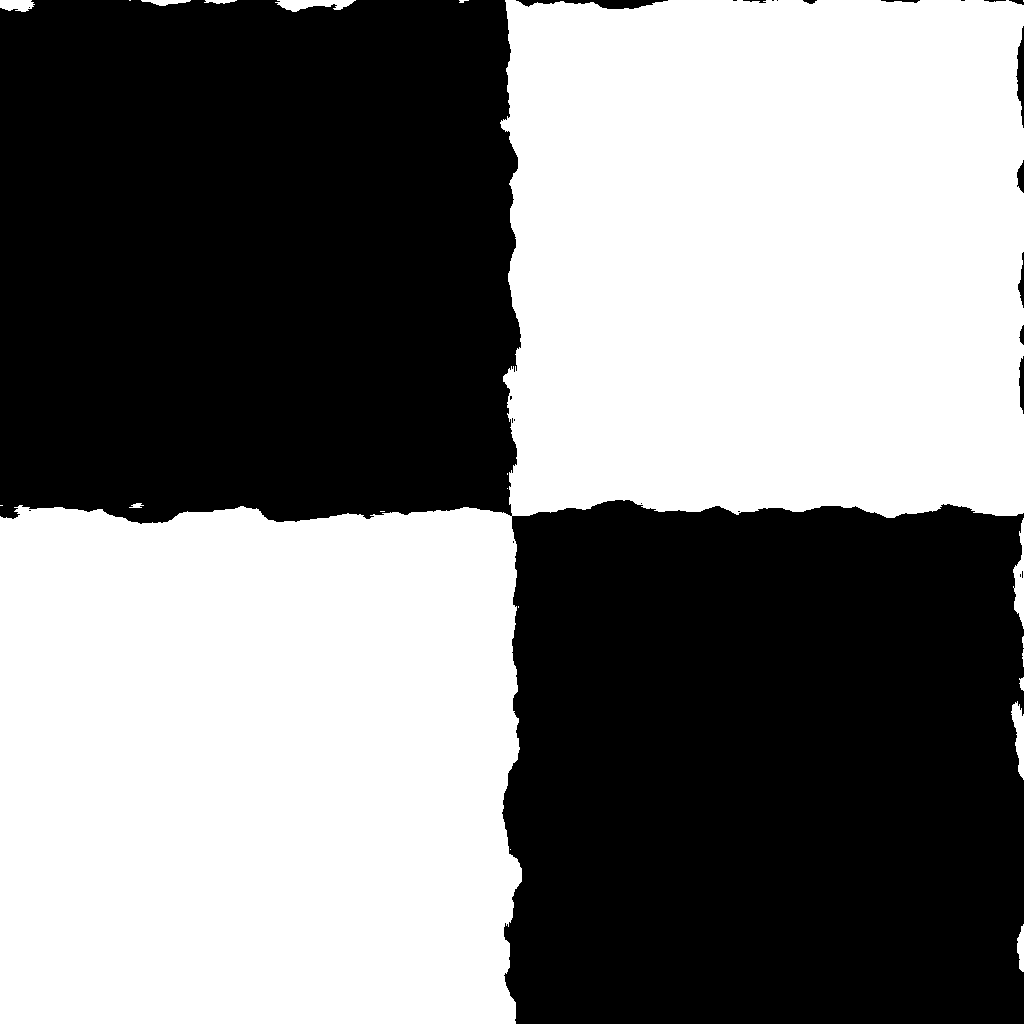
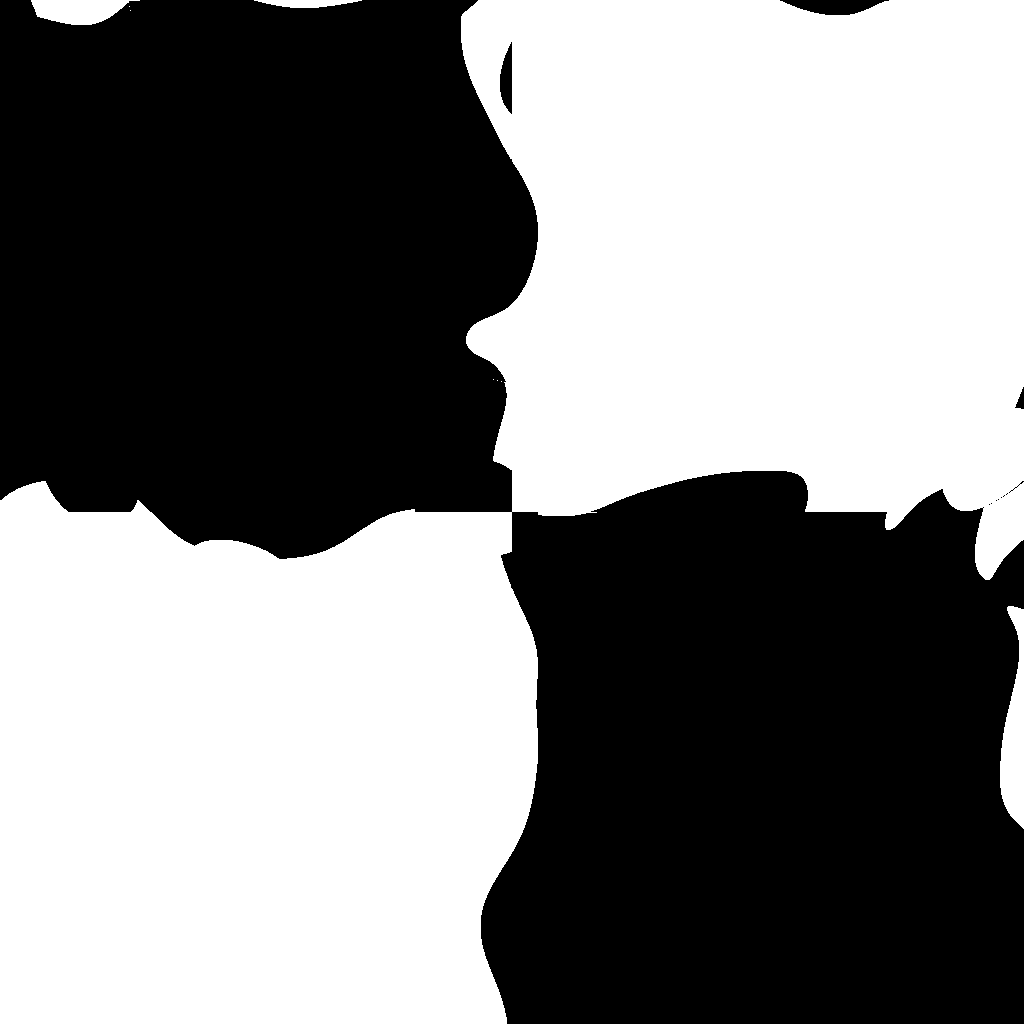
change to using manual sampling to calculate the derivative of the warper
This makes the resulting image more independent of the resolution and
gives another parameter for the node.
Also fixed a warning in the Slider component and allowed a step of 0 (no
aligning of the value).

diff --git a/src/nodes/definitions.ts b/src/nodes/definitions.ts
@@ -200,13 +200,20 @@ const nodeDefinitions = new Map<string, NodeDefinition>([
   ["warp", {
     name: "Warp",
     template: preprocessTemplate(`
-      vec4 warperValue;
-      vec2 uv = $UV;
-      $INPUT0(warperValue, uv)
-      vec2 d = vec2(dFdx(warperValue.r), dFdy(warperValue.r));
+      vec4 warperSample, warperSampleX, warperSampleY;
+      
+      vec2 sampleUv = $UV;
+      $INPUT0(warperSample, sampleUv)
+      sampleUv = $UV + vec2($derivation_step, 0);
+      $INPUT0(warperSampleX, sampleUv)
+      sampleUv = $UV + vec2(0, $derivation_step);
+      $INPUT0(warperSampleY, sampleUv)
+
+      float dx = (rgb2hsv(warperSample.rgb).z - rgb2hsv(warperSampleX.rgb).z) / $derivation_step;
+      float dy = (rgb2hsv(warperSample.rgb).z - rgb2hsv(warperSampleY.rgb).z) / $derivation_step;
 
       vec4 outputColor;
-      uv += d * $strength;
+      vec2 uv = $UV + vec2(dx, dy) * $strength * 0.005;
       $INPUT1(outputColor, uv)
 
       $OUT = outputColor;
@@ -224,6 +231,18 @@ const nodeDefinitions = new Map<string, NodeDefinition>([
           step: 0.001,
         },
         value: 1.0,
+      },
+      {
+        name: "Derivation step",
+        uniformName: "derivation_step",
+        inputType: "slider",
+        uniformType: { type: "float", array: false },
+        settings: {
+          min: 0.0001,
+          max: 0.05,
+          step: 0,
+        },
+        value: 0.001,
       },
     ],
     inputs: [

diff --git a/src/components/ui/slider/slider.tsx b/src/components/ui/slider/slider.tsx
@@ -52,7 +52,7 @@ export default function Slider({
     if (sliderProgress < 0.0) sliderProgress = 0.0;
 
     let newValue = min + sliderProgress * (max - min);
-    if (step !== undefined) {
+    if (step !== undefined && step !== 0) {
       newValue = Math.round(newValue / step) * step;
     }
 
@@ -122,6 +122,7 @@ export default function Slider({
             min={min}
             max={max}
             step={step}
+            readOnly
           />
           {showValue && <div
             style={{ left: `${progress}%` }}
